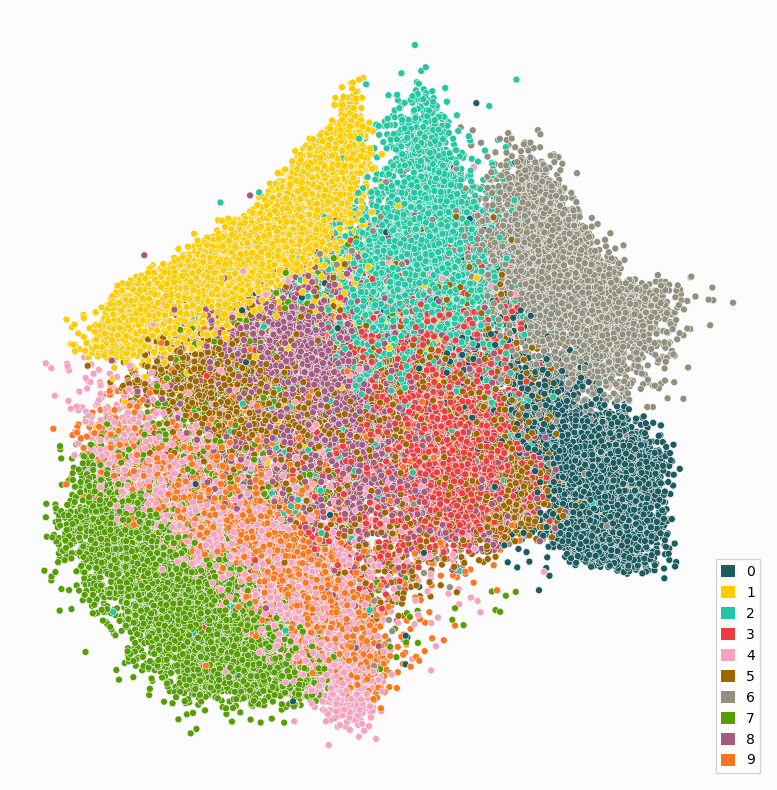
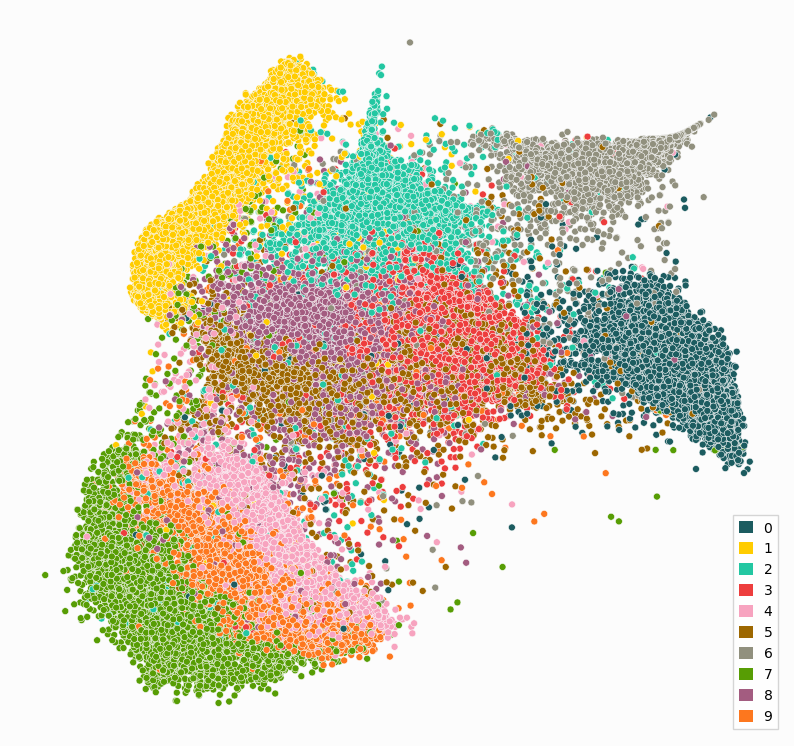
update umap example

diff --git a/paradime/loss.py b/paradime/loss.py
@@ -388,12 +388,13 @@ def kullback_leibler_div(
             near-zero probability values.
             
     Returns:
-        The Kullback-Leibler divergence of the two input tensors.
+        The Kullback-Leibler divergence of the two input tensors, divided by
+        the number of items in the batch.
     """
     eps = torch.tensor(epsilon, dtype=p.dtype)
     kl_matr = torch.mul(p, torch.log(p + eps) - torch.log(q + eps))
     kl_matr.fill_diagonal_(0.)    
-    return torch.sum(kl_matr)
+    return torch.sum(kl_matr) / len(p)
 
 def cross_entropy_loss(
     p: torch.Tensor,
@@ -412,10 +413,11 @@ def cross_entropy_loss(
             near-zero probability values.
             
     Returns:
-        The cross-entropy loss of the two input tensors.
+        The cross-entropy loss of the two input tensors, divided by the number
+        items in the batch.
     """
     attraction = -1. * p * torch.log(torch.clamp(q, min=epsilon, max=1.0))
     repulsion = -1. * (1. - p) * torch.log(
         torch.clamp(1 - q, min=epsilon, max=1.0))
     loss = attraction + repulsion
-    return torch.sum(loss)
+    return torch.sum(loss) / len(p)

diff --git a/examples/umap.py b/examples/umap.py
@@ -48,6 +48,7 @@ batch_rel = pdrel.DistsFromTo(
 # start-setup-dr
 pumap = pddr.ParametricDR(
     dataset=mnist_data[:num_items],
+    hidden_dims=[100,100,100],
     global_relations=global_rel,
     batch_relations=batch_rel,
     use_cuda=True,
@@ -86,12 +87,12 @@ init_phase = pddr.TrainingPhase(
 main_phase = pddr.TrainingPhase(
     name='main_embedding',
     epochs=60,
-    batches_per_epoch=50,
-    batch_size=100,
+    batches_per_epoch=10,
+    batch_size=500,
     sampling='negative_edge',
-    neg_sampling_rate=5,
+    neg_sampling_rate=3,
     loss=pdloss.RelationLoss(loss_function=pdloss.cross_entropy_loss),
-    learning_rate=0.001,
+    learning_rate=0.01,
     report_interval=5,
 )
 # end-setup-main
